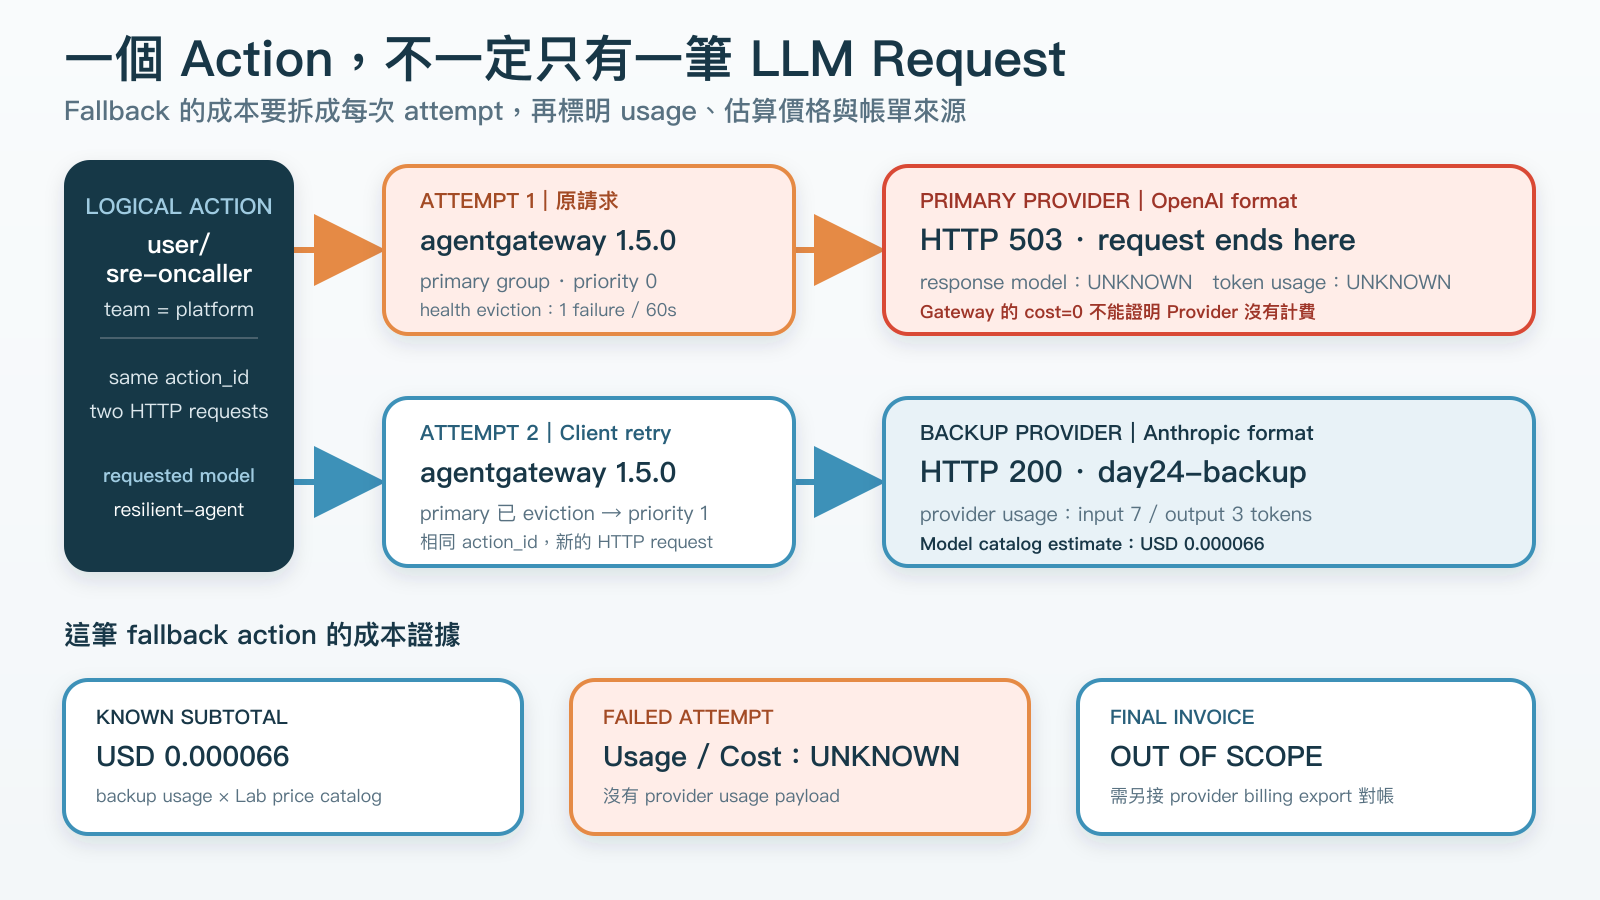
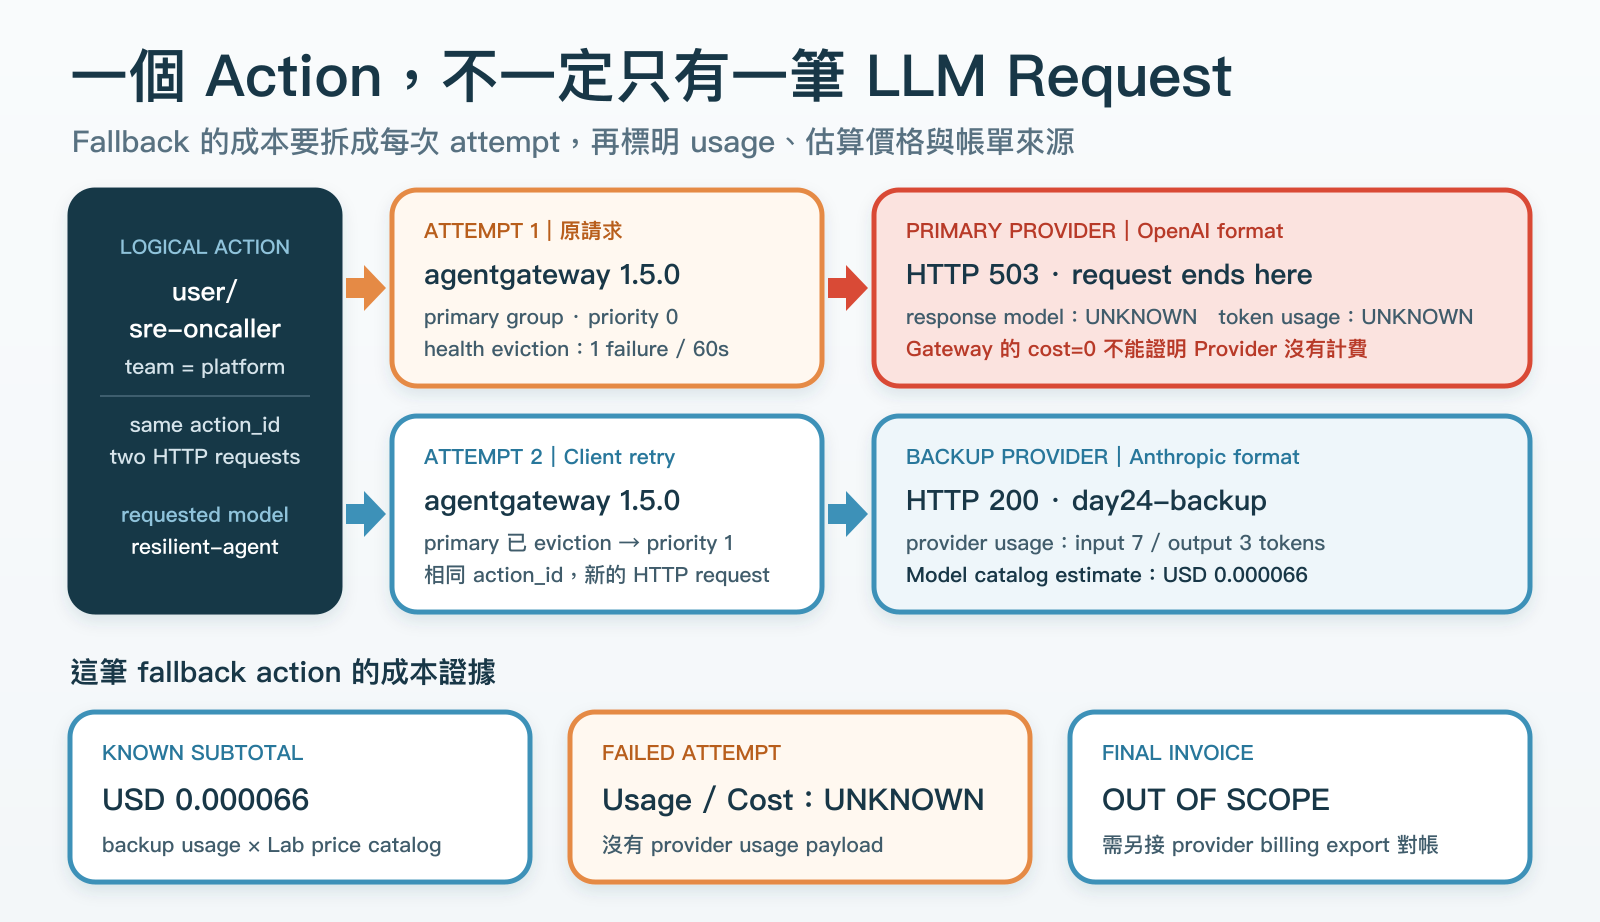
docs: release redesigned Day 21-30 diagrams

Changed region(s): [[0.0312, 0.0311, 0.9688, 0.9644]]

diff --git a/articles/day-25/article.md b/articles/day-25/article.md
@@ -12,7 +12,7 @@ Day 20 到 Day 24 都把 LGTM 放在 Agent 外面。Agent、Gateway 與 MCP Serv
 
 它沒有取代 Loki，也不是另一套可觀測性平台。mcp-grafana 把既有資料來源整理成 Agent 能理解的 Tool Contract，agentgateway 則放在前面處理 MCP Routing、Backend Credential、Policy 與 Traffic Telemetry，避免每個 Agent 都直接持有 Grafana Endpoint 和 Credential。
 
-![SRE 問題先交給 Google ADK Agent，再經 agentgateway、mcp-grafana 與 Grafana datasource proxy 查詢 Loki。Tool result 帶著 service_name、action_id 與 trace_id 回到 Agent，下方分開標示三段連線的授權責任。](https://raw.githubusercontent.com/MikeHsu0618/2026-ithelp-agent-governance-public/day-25-r4/assets/diagrams/day-25/sre-agent-grafana-mcp-path.png)
+![SRE 問題先交給 Google ADK Agent，再經 agentgateway、mcp-grafana 與 Grafana datasource proxy 查詢 Loki。Tool result 帶著 service_name、action_id 與 trace_id 回到 Agent，下方分開標示三段連線的授權責任。](https://raw.githubusercontent.com/MikeHsu0618/2026-ithelp-agent-governance-public/day-25-r5/assets/diagrams/day-25/sre-agent-grafana-mcp-path.png)
 
 圖中的三段連線有不同責任。Agent 到 Gateway 要處理 Caller、Tenant 與 Scope，Gateway 到 MCP Server 要決定能呼叫哪個 Backend，mcp-grafana 到 Grafana 則受 Grafana Service Account、RBAC、Datasource 與資料範圍約束。這裡的 Grafana Service Account 不是 Kubernetes ServiceAccount。三段都成功，也不能把 Grafana 最後看到的服務身分說成 End-user Delegation。
 
@@ -35,7 +35,7 @@ toolset = McpToolset(
 
 `tool_filter` 只減少模型看見的 Tools，不能當成完整授權。真正的拒絕仍要落在 Runtime Callback、Gateway Policy、MCP Server 設定或 Grafana RBAC。Tool 沒出現在 Prompt 裡，不代表其他 Request Path 已經封閉。
 
-這組實驗可從 [Lab 04 README](https://github.com/MikeHsu0618/2026-ithelp-agent-governance-public/blob/day-25-r4/labs/04-telemetry-pipeline/README.md#讓-google-adk-sre-agent-透過-grafana-mcp-查-loki) 重現。第一次 Tool Call 查 Loki，第二個 Model Turn 整理結果。我關心的是回到 Agent 手上的資料是否還保有調查所需的結構。
+這組實驗可從 [Lab 04 README](https://github.com/MikeHsu0618/2026-ithelp-agent-governance-public/blob/day-25-r5/labs/04-telemetry-pipeline/README.md#讓-google-adk-sre-agent-透過-grafana-mcp-查-loki) 重現。第一次 Tool Call 查 Loki，第二個 Model Turn 整理結果。我關心的是回到 Agent 手上的資料是否還保有調查所需的結構。
 
 乾淨環境裡，ADK 最後取得一筆 `service_name=day25-sre-agent` 的 Error Log，並保留 `action_id=act-day25-adk-query` 和 `trace_id=2525...2525`。這三個欄位也能在 Loki 原始資料查回，所以結果不是 Runner 自己補出來的 Summary。
 
@@ -75,9 +75,9 @@ mcp-grafana 實際回傳的關鍵部分如下：
 
 這是產品鏈除錯的一個分支，不是本文主題。它的價值在於把同一筆 Tool Call 的 Transport、MCP、Tool 與 Query Outcome 拆開：
 
-![同樣收到 Client HTTP 200，Grafana API 回 HTML 會形成 Tool error，合法空查詢是 NO MATCH，只有查到帶 action_id 與 trace_id 的 Loki log 才是 USABLE。](https://raw.githubusercontent.com/MikeHsu0618/2026-ithelp-agent-governance-public/day-25-r4/assets/diagrams/day-25/grafana-mcp-four-layer.png)
+![同樣收到 Client HTTP 200，Grafana API 回 HTML 會形成 Tool error，合法空查詢是 NO MATCH，只有查到帶 action_id 與 trace_id 的 Loki log 才是 USABLE。](https://raw.githubusercontent.com/MikeHsu0618/2026-ithelp-agent-governance-public/day-25-r5/assets/diagrams/day-25/grafana-mcp-four-layer.png)
 
-圖裡最容易誤判的是第一條：Grafana API 回 HTML 時，入口仍是 `200`，錯誤到 Tool 解碼才出現。合法空查詢也已通過 Tool，卻沒有能支持後續調查的 Log。只有結果保留 `action_id` 與 `trace_id`，Agent 才能繼續向其他 Telemetry 查證。Repo 裡的 [MCP Tool 四層結果檢查表](https://github.com/MikeHsu0618/2026-ithelp-agent-governance-public/blob/day-25-r4/articles/day-25/mcp-outcome-checklist.md) 保留各層狀態，方便拿自己的 Tool Result 對照。
+圖裡最容易誤判的是第一條：Grafana API 回 HTML 時，入口仍是 `200`，錯誤到 Tool 解碼才出現。合法空查詢也已通過 Tool，卻沒有能支持後續調查的 Log。只有結果保留 `action_id` 與 `trace_id`，Agent 才能繼續向其他 Telemetry 查證。Repo 裡的 [MCP Tool 四層結果檢查表](https://github.com/MikeHsu0618/2026-ithelp-agent-governance-public/blob/day-25-r5/articles/day-25/mcp-outcome-checklist.md) 保留各層狀態，方便拿自己的 Tool Result 對照。
 
 ## 各觀測點的責任
 
@@ -96,7 +96,7 @@ Query Result 是否足以完成事故調查，仍應由 Runtime 或 Application 
 
 完整產品鏈的啟動、清理、三種 Outcome 與原始結果留在前面的 Lab 04 README。agentgateway MCP Playground 的實跑畫面則讓讀者直接看 Tool Output：Loki Log、`service_name`，以及 Structured Metadata 裡的 `action_id` 和 `trace_id`。
 
-![agentgateway 官方 MCP Playground 實跑 query_loki_logs，Tool output 含一筆 Loki log、service_name label，以及 action_id、trace_id structured metadata。](https://raw.githubusercontent.com/MikeHsu0618/2026-ithelp-agent-governance-public/day-25-r4/assets/screenshots/day-25/agentgateway-grafana-mcp-playground.png)
+![agentgateway 官方 MCP Playground 實跑 query_loki_logs，Tool output 含一筆 Loki log、service_name label，以及 action_id、trace_id structured metadata。](https://raw.githubusercontent.com/MikeHsu0618/2026-ithelp-agent-governance-public/day-25-r5/assets/screenshots/day-25/agentgateway-grafana-mcp-playground.png)
 
 ## Trace ID 是回放入口
 

diff --git a/articles/day-24/article.md b/articles/day-24/article.md
@@ -4,7 +4,7 @@ agentgateway `1.5.0` 的 LLM Analytics 跑起來後，不用先畫 Grafana，就
 
 下面這張畫面來自一個故意觸發備援的 Lab。同一個 Agent Action 先打到 Primary Provider，收到 `503` 後由 Client 重送，再由 Backup Provider 成功完成。Dashboard 顯示 `2 calls`、10 個 Tokens 與 `USD 0.000066`。三個數字都是真的，卻不能直接讀成「這個 Action 完整花了 USD 0.000066」。
 
-![agentgateway 1.5.0 內建 Analytics 實跑畫面。相同 Fallback action 產生 OpenAI 與 Anthropic 各一筆 request，畫面顯示 2 calls，但只有成功 response 提供的 10 tokens 與 USD 0.000066。](https://raw.githubusercontent.com/MikeHsu0618/2026-ithelp-agent-governance-public/day-24-r3/assets/screenshots/day-24/agentgateway-official-analytics-dashboard.png)
+![agentgateway 1.5.0 內建 Analytics 實跑畫面。相同 Fallback action 產生 OpenAI 與 Anthropic 各一筆 request，畫面顯示 2 calls，但只有成功 response 提供的 10 tokens 與 USD 0.000066。](https://raw.githubusercontent.com/MikeHsu0618/2026-ithelp-agent-governance-public/day-24-r4/assets/screenshots/day-24/agentgateway-official-analytics-dashboard.png)
 
 Day 23 已經量過高基數 Label 的代價，這篇把注意力移到 Model、Provider、Tokens 與 Cost。Fallback 只是壓力測試，它讓 Dashboard 平常不明顯的三條界線一起浮出來：一次使用者動作可能包含多次 Provider Attempts、失敗回應不一定帶 Usage、Gateway Estimate 也不等於 Provider 最後開出的帳單。
 
@@ -20,7 +20,7 @@ agentgateway 也提供[官方 Grafana Dashboard](https://agentgateway.dev/docs/s
 
 ## Action 與 Attempt 的兩層帳本
 
-Day 24 的 [Lab 04 README](https://github.com/MikeHsu0618/2026-ithelp-agent-governance-public/blob/day-24-r3/labs/04-telemetry-pipeline/README.md) 啟動兩個本機 Provider Fixtures。Client 要求的是 Virtual Model `day24-resilient-agent`，Primary 使用 OpenAI 相容格式，Backup 使用 Anthropic 格式。兩邊都回傳固定結果，不需要外部 API Key，也不會把流量送出電腦。
+Day 24 的 [Lab 04 README](https://github.com/MikeHsu0618/2026-ithelp-agent-governance-public/blob/day-24-r4/labs/04-telemetry-pipeline/README.md) 啟動兩個本機 Provider Fixtures。Client 要求的是 Virtual Model `day24-resilient-agent`，Primary 使用 OpenAI 相容格式，Backup 使用 Anthropic 格式。兩邊都回傳固定結果，不需要外部 API Key，也不會把流量送出電腦。
 
 這裡需要先分開兩個識別：
 
@@ -33,7 +33,7 @@ Day 24 的 [Lab 04 README](https://github.com/MikeHsu0618/2026-ithelp-agent-gove
 
 圖中的兩條路徑是兩組互不串接的實驗，不是 Production 裡的雙層 Proxy。每一次實際 Data Path 都只有 Client → agentgateway → Provider。
 
-![同一個 Agent action 經過兩次 HTTP request。第一次由 primary provider 回傳 503，第二次 client retry 才由 backup provider 成功服務，失敗 attempt 的 usage 與 cost 保持 UNKNOWN。](https://raw.githubusercontent.com/MikeHsu0618/2026-ithelp-agent-governance-public/day-24-r3/assets/diagrams/day-24/fallback-cost-evidence.png)
+![同一個 Agent action 經過兩次 HTTP request。第一次由 primary provider 回傳 503，第二次 client retry 才由 backup provider 成功服務，失敗 attempt 的 usage 與 cost 保持 UNKNOWN。](https://raw.githubusercontent.com/MikeHsu0618/2026-ithelp-agent-governance-public/day-24-r4/assets/diagrams/day-24/fallback-cost-evidence.png)
 
 ## Health Eviction 的實測結果
 
@@ -85,7 +85,7 @@ Metrics 若只保留 Requested Model，所有流量看起來都屬於同一條 R
 
 官方 Analytics 適合查看 Model 與 Provider 趨勢，自訂 Grafana 畫面則把兩組實驗的 Gateway Metrics、Loki Logs 與 Tempo Traces 放在一起。上半部顯示 Primary Calibration 與 Backup 的原生 Token／Cost Metrics，下半部使用同一個 `correlation_action_id` 找到 Primary `503` 和 Backup `200`。
 
-![Day 24 Grafana focused extension 實拍。上半部使用 agentgateway 原生成本與 token metrics，下半部以相同 action_id 查到 primary 503 與 backup 200。](https://raw.githubusercontent.com/MikeHsu0618/2026-ithelp-agent-governance-public/day-24-r3/assets/screenshots/day-24/agentgateway-cost-fallback-dashboard.png)
+![Day 24 Grafana focused extension 實拍。上半部使用 agentgateway 原生成本與 token metrics，下半部以相同 action_id 查到 primary 503 與 backup 200。](https://raw.githubusercontent.com/MikeHsu0618/2026-ithelp-agent-governance-public/day-24-r4/assets/screenshots/day-24/agentgateway-cost-fallback-dashboard.png)
 
 畫面上的 `USD 0.00012975` 是兩筆成功 Responses 的合計，其中包含一筆獨立的 Primary Calibration，加上 Fallback Action 最後的 Backup Attempt。它能驗證兩種 Provider 格式都被 agentgateway 正確計價，卻不是某一個 Fallback Action 的價格。這也是自訂 Dashboard 必須保留 Action／Attempt 層級，而不是只畫另一張 Total Cost Stat 的原因。
 

diff --git a/articles/day-23/article.md b/articles/day-23/article.md
@@ -16,7 +16,7 @@ Python 只負責建立臨時 RSA Key、替合成 Principal 簽 Token、送出固
 
 下圖的 A、B、C 是三個平行實驗組，不是三層 Proxy 串在 Production Data Path。每一組收到完全相同的 90 筆 Request，唯一改變的是 Metric Label 設計。
 
-![同一批 90 筆 request 通過三組平行 agentgateway。Metrics 依序只加入 team、加入 user_id、再加入 conversation_id，Tempo 與 Loki 保留單筆身分查詢。](https://raw.githubusercontent.com/MikeHsu0618/2026-ithelp-agent-governance-public/day-23-r3/assets/diagrams/day-23/cardinality-experiment.png)
+![同一批 90 筆 request 通過三組平行 agentgateway。Metrics 依序只加入 team、加入 user_id、再加入 conversation_id，Tempo 與 Loki 保留單筆身分查詢。](https://raw.githubusercontent.com/MikeHsu0618/2026-ithelp-agent-governance-public/day-23-r4/assets/diagrams/day-23/cardinality-experiment.png)
 
 流量矩陣固定為 30 位合成使用者、3 個 Team，每人 3 段 Conversation。每組 Gateway 處理 90 筆 Request，所以整次實驗共有 270 次成功請求，另有兩筆預期被拒絕的 Authentication Guard。所有 Principal 都使用 `user/sre-oncaller-000` 這類 Lab 名稱，不對應真實帳號。
 
@@ -38,7 +38,7 @@ Per-user 組再加入 `user_id: jwt.sub`，Per-conversation 組則增加從 `x-c
 
 三組都使用 agentgateway 原生 [Metric Field Projection](https://agentgateway.dev/docs/standalone/latest/observability/metrics/overview/)，Alloy 再 Scrape `agentgateway_requests_total`。這裡沒有讓 Python 另建一個 `requests_total` 模仿 Gateway。
 
-Runtime 會在 Ignored Directory 產生 Private Key，只有 Public JWKS 掛進 Container。JWT、Authorization Header 與 Private Key 都不進公開 Evidence。這些執行安全細節保留在 [Lab 04 README](https://github.com/MikeHsu0618/2026-ithelp-agent-governance-public/blob/day-23-r3/labs/04-telemetry-pipeline/README.md)，正文專注在 Label Design。
+Runtime 會在 Ignored Directory 產生 Private Key，只有 Public JWKS 掛進 Container。JWT、Authorization Header 與 Private Key 都不進公開 Evidence。這些執行安全細節保留在 [Lab 04 README](https://github.com/MikeHsu0618/2026-ithelp-agent-governance-public/blob/day-23-r4/labs/04-telemetry-pipeline/README.md)，正文專注在 Label Design。
 
 ## Prometheus 實際得到 3、30、90 條 Series
 
@@ -59,7 +59,7 @@ count(
 
 Grafana 上的三個 Bar Gauge 直接查原生 `agentgateway_requests_total`。下方 Access Logs 則是三組 Gateway 實際送進 Alloy 的 OTLP Log，不是拿 Report JSON 做成靜態圖。
 
-![Day 23 Grafana 實拍。三組 agentgateway 原生 metrics 分別出現 3、30、90 條 series，下方同時顯示 Gateway OTLP access logs。](https://raw.githubusercontent.com/MikeHsu0618/2026-ithelp-agent-governance-public/day-23-r3/assets/screenshots/day-23/agentgateway-cardinality-dashboard.png)
+![Day 23 Grafana 實拍。三組 agentgateway 原生 metrics 分別出現 3、30、90 條 series，下方同時顯示 Gateway OTLP access logs。](https://raw.githubusercontent.com/MikeHsu0618/2026-ithelp-agent-governance-public/day-23-r4/assets/screenshots/day-23/agentgateway-cardinality-dashboard.png)
 
 這不是 `team × user × conversation` 的笛卡兒積。每位使用者只屬於一個 Team，加入 `team + user_id` 後是實際出現的 30 組。每段 Conversation 也只屬於一位使用者，所以第三組是 90 組，而不是 3 × 30 × 90。
 

diff --git a/articles/day-30/article.md b/articles/day-30/article.md
@@ -15,13 +15,13 @@ Day 1 的 Lab 留下了危險動作的安全標記，Day 3 則試出一個有效
 | 真正的執行結果 | Tool 只寫安全標記，沒有刪除資料庫 | Resource Server 回傳可對回同一筆 Action 的實際修改紀錄 |
 | 事故發生後 | 能找回當時留下的 Event 與 Trace ID，卻缺可信發起者和執行映像 | 沿同一筆 Action 查回身分、政策、實際映像、必要的核准與結果 |
 
-Day 3 用相同輸入做了放行與拒絕對照：換成 Tool Allowlist 後，危險 Function 沒有執行，Agent 仍改用 `query_metrics` 完成唯讀調查。這筆對照的回放資料留在 [Incident Replay Lab](https://github.com/MikeHsu0618/2026-ithelp-agent-governance-public/blob/day-30-r4/labs/05-incident-replay/README.md)。
+Day 3 用相同輸入做了放行與拒絕對照：換成 Tool Allowlist 後，危險 Function 沒有執行，Agent 仍改用 `query_metrics` 完成唯讀調查。這筆對照的回放資料留在 [Incident Replay Lab](https://github.com/MikeHsu0618/2026-ithelp-agent-governance-public/blob/day-30-r5/labs/05-incident-replay/README.md)。
 
 ## Reference Architecture 的四條路徑
 
 最後的圖只有一條主要動作路徑：呼叫者提出請求，Gateway 檢查共同規則，Agent Runtime 決定下一步，Tool 所屬的服務決定資源能否修改。另外兩條支線回答執行版本從哪裡來、事後資料送到哪裡。架構審查不用先背完產品名稱，先沿這筆 Action 問誰能拒絕、誰能批准、實際跑了什麼。
 
-![一筆 action 由 Human 或 M2M caller 經 agentgateway、Google ADK Runtime 到 Tool 或 Resource Server。下方 Artifact 卡片標明完整 Agent Image Digest、批准及執行映像核對仍是待驗證的設計目標。Evidence 卡片區分 Alloy／LGTM 與尚待獨立驗證的 Audit 保存。](https://raw.githubusercontent.com/MikeHsu0618/2026-ithelp-agent-governance-public/day-30-r4/assets/diagrams/day-30/reference-architecture.png)
+![一筆 action 由 Human 或 M2M caller 經 agentgateway、Google ADK Runtime 到 Tool 或 Resource Server。下方 Artifact 卡片標明完整 Agent Image Digest、批准及執行映像核對仍是待驗證的設計目標。Evidence 卡片區分 Alloy／LGTM 與尚待獨立驗證的 Audit 保存。](https://raw.githubusercontent.com/MikeHsu0618/2026-ithelp-agent-governance-public/day-30-r5/assets/diagrams/day-30/reference-architecture.png)
 
 ## Request Path：Identity、Gateway 與 Resource Authorization
 
